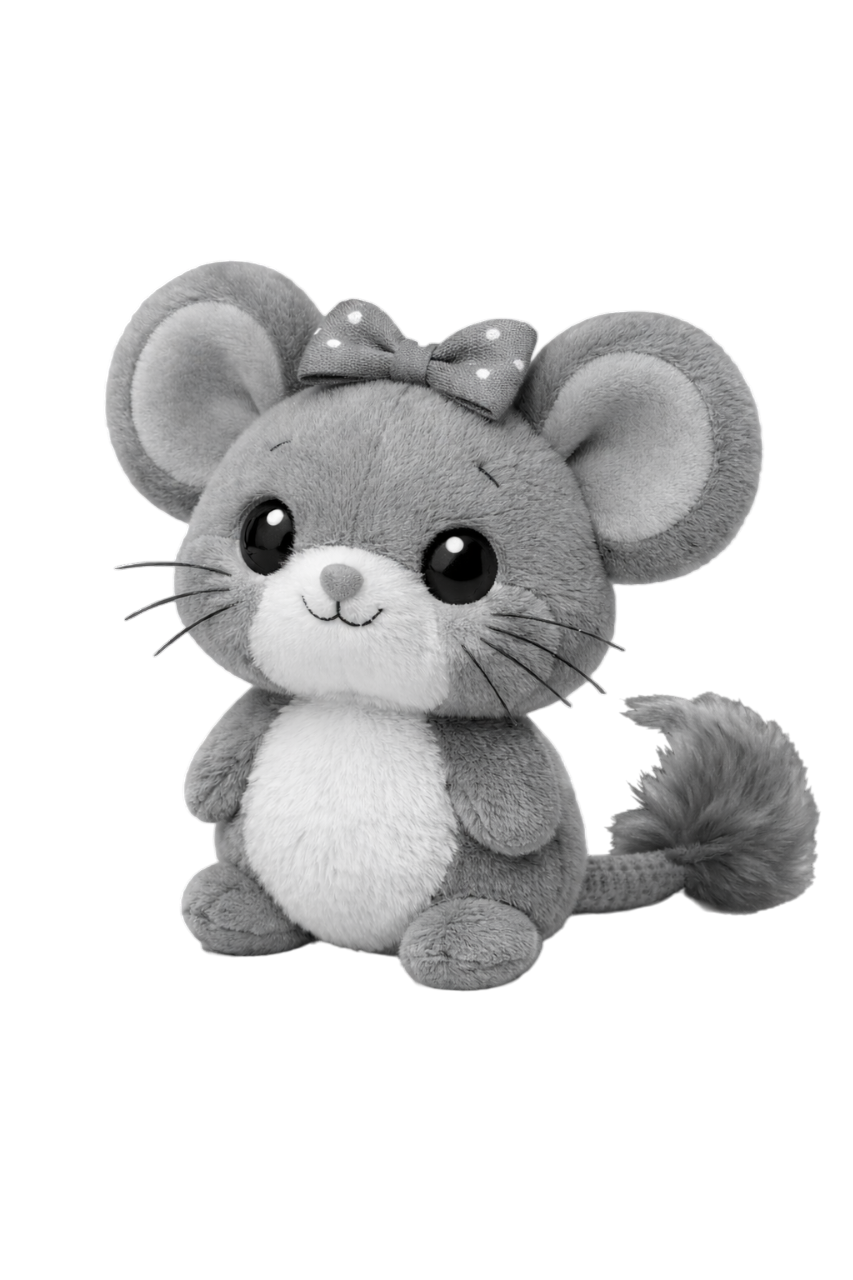
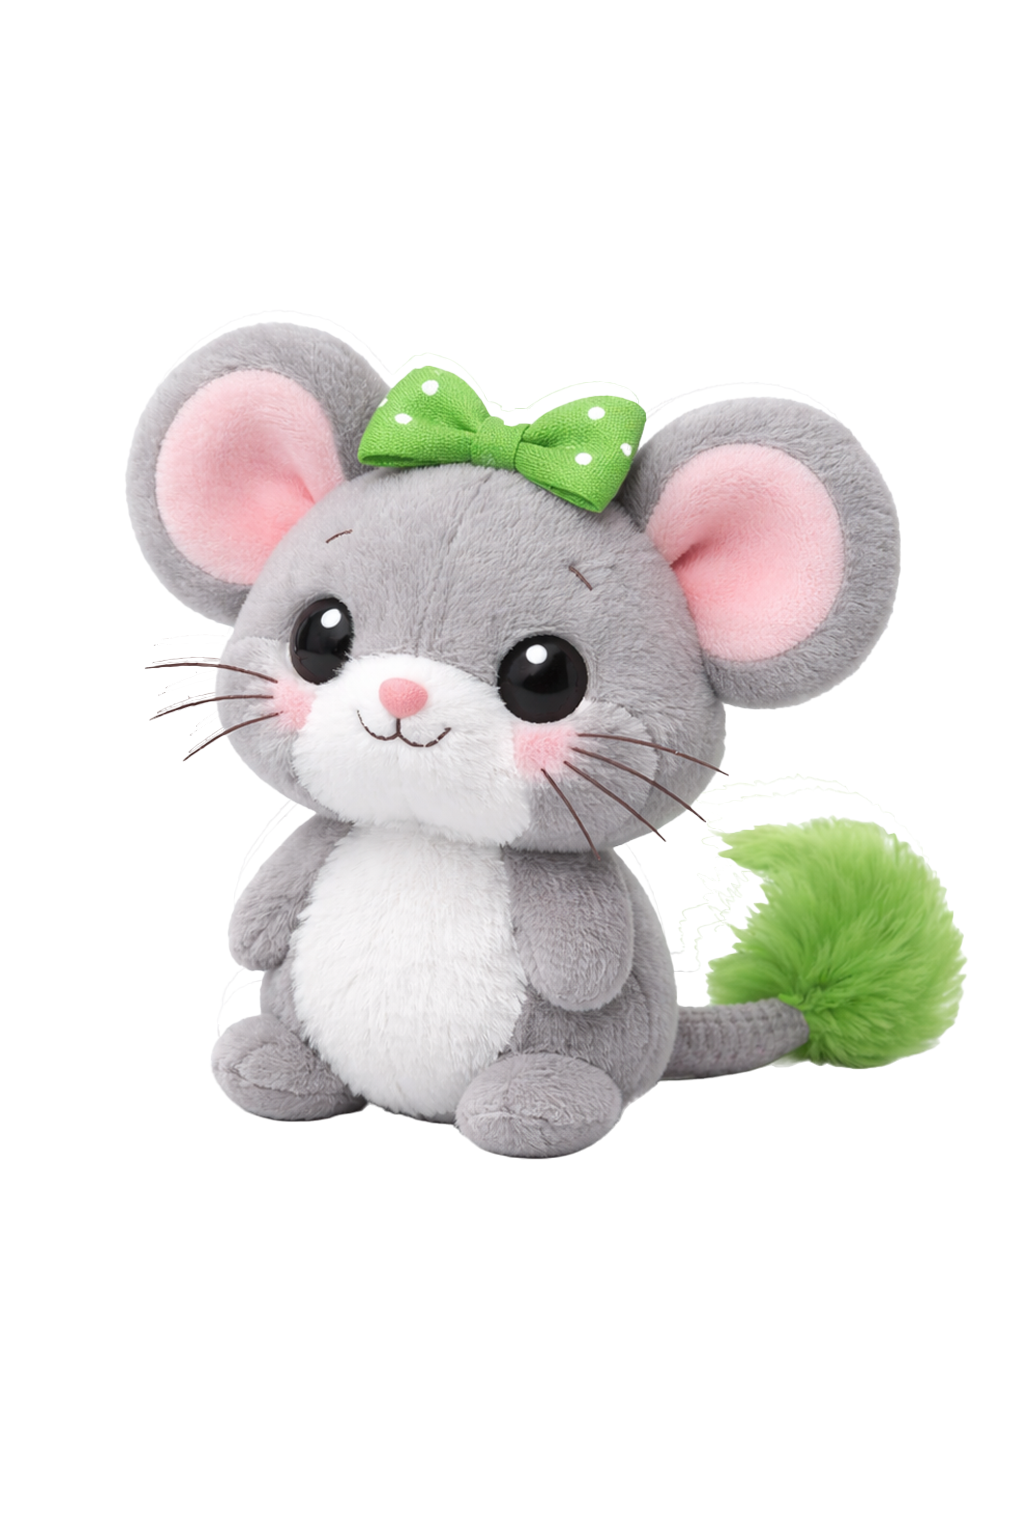
imagenes

Changed region(s): [[0.1219, 0.1875, 0.9754, 0.7812], [0.3658, 0.6562, 0.3962, 0.6875]]

diff --git a/public/js/tienda.js b/public/js/tienda.js
@@ -68,37 +68,36 @@ inventario.find(p => p.nombre === 'Pelota de Goma').variantes = [
 
 inventario.find(p => p.nombre === 'Ratón de Peluche').variantes = [
   { nombre: 'Rosa', imagen: 'imagenes/productos/ratonPeluche.png' },
-  { nombre: 'Gris', imagen: 'imagenes/productos/ratonPeluche2.png' },
+  { nombre: 'Verde', imagen: 'imagenes/productos/ratonPeluche2.png' },
   { nombre: 'Azul', imagen: 'imagenes/productos/ratonPeluche3.png' }
 ];
 
 inventario.find(p => p.nombre === 'Hueso de Nylon').variantes = [
-  { nombre: 'Clásico', imagen: 'imagenes/productos/huesoNylon.png' },
+  { nombre: 'Clasico', imagen: 'imagenes/productos/huesoNylon.png' },
   { nombre: 'Grande', imagen: 'imagenes/productos/huesoNylon2.png' }
 ];
 
 
 // MERCHANDISING
 inventario.find(p => p.nombre === 'Correa para perro').variantes = [
-  { nombre: 'Roja', imagen: 'imagenes/productos/correaPerro.png' },
-  { nombre: 'Azul', imagen: 'imagenes/productos/correaPerro2.png' }
+  { nombre: 'Marrón', imagen: 'imagenes/productos/correaPerro.png' },
+  { nombre: 'Morado', imagen: 'imagenes/productos/correaPerro2.png' }
 ];
 
 inventario.find(p => p.nombre === 'Collar para gato').variantes = [
-  { nombre: 'Negro', imagen: 'imagenes/productos/collarGato.png' },
-  { nombre: 'Rosa', imagen: 'imagenes/productos/collarGato2.png' }
+  { nombre: 'Marrón', imagen: 'imagenes/productos/collarGato.png' },
+  { nombre: 'Morado', imagen: 'imagenes/productos/collarGato2.png' }
 ];
 
 inventario.find(p => p.nombre === 'Plato de comida').variantes = [
-  { nombre: 'Blanco', imagen: 'imagenes/productos/platoComida.png' },
-  { nombre: 'Verde', imagen: 'imagenes/productos/platoComida2.png' }
+  { nombre: 'Marrón', imagen: 'imagenes/productos/platoComida.png' },
+  { nombre: 'Morado', imagen: 'imagenes/productos/platoComida2.png' }
 ];
 
 inventario.find(p => p.nombre === 'Chubasquero').variantes = [
-  { nombre: 'Transparente', imagen: 'imagenes/productos/chubasqueroPerro.png' },
+  { nombre: 'Gris', imagen: 'imagenes/productos/chubasqueroPerro.png' },
   { nombre: 'Azul', imagen: 'imagenes/productos/chubasqueroPerro2.png' }
 ];
-
 
 
 // CABELLO
@@ -131,7 +130,6 @@ inventario.find(p => p.nombre === 'Peluca Gato').variantes = [
   { nombre: 'Marrón claro', imagen: 'imagenes/productos/pelucaGato.png' },
   { nombre: 'Marrón oscuro', imagen: 'imagenes/productos/pelucaGato2.png' }
 ];
-
 
 // MOBILIARIO
 inventario.find(p => p.nombre === 'Mesa para mascotas').variantes = [
